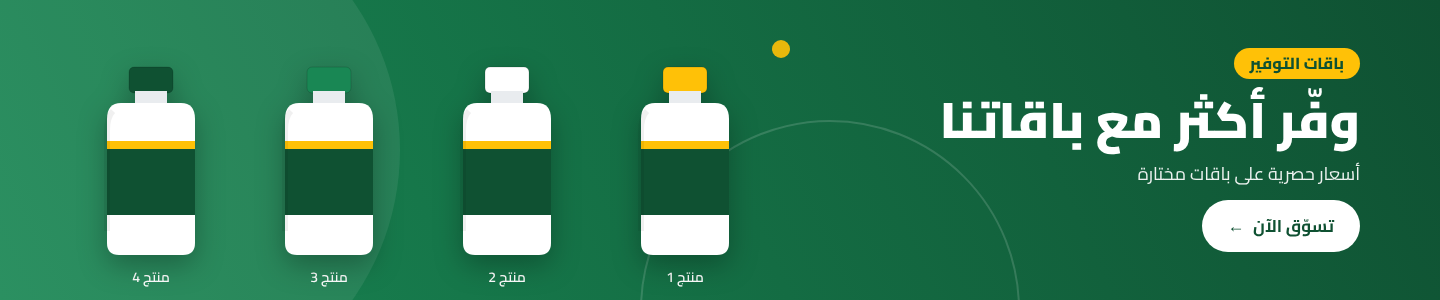
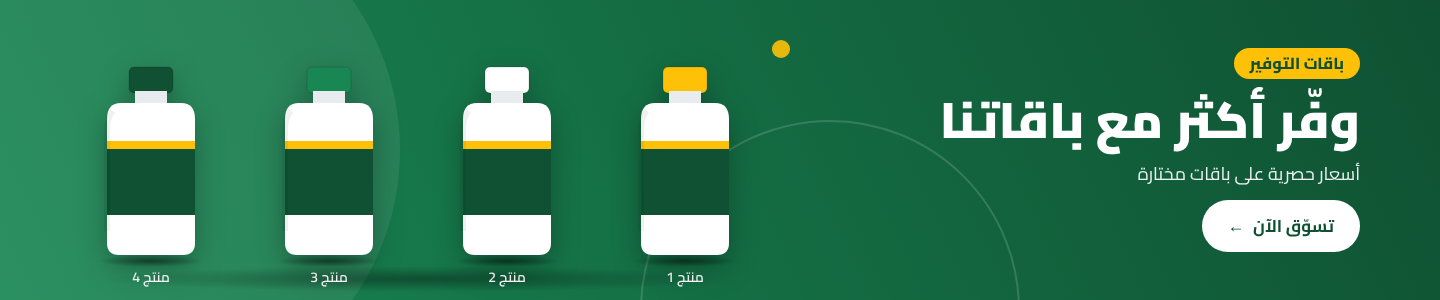
Offer 2: add remaining 3 shampoos, tidy symmetric arrangement
- Cut-out now fills the product outline, so white bottles on white
  backgrounds keep their bodies and labels
- Products share a baseline with per-product scale and ground shadows

Claude-Session: https://claude.ai/code/session_01MejyVmSq2aYVYmituLqweB

Changed region(s): [[0.1875, 0.84, 0.375, 0.96], [0.4688, 0.84, 0.5, 0.9], [0.0938, 0.84, 0.125, 0.9]]

diff --git a/banners/offers.js b/banners/offers.js
@@ -47,17 +47,18 @@ const OFFERS = [
     sub: { en: "On Bioxcin hair care favourites", ar: "على منتجات بيوكسين للعناية بالشعر" },
     cta: { en: "Shop Now", ar: "تسوّق الآن" },
     code: { en: "", ar: "" },
+    // Each row of 4 runs small → large → large → small; "scale" = height relative to the tallest.
     products: [
-      { name: { en: "Quantum Bio-Activ Shampoo", ar: "شامبو كوانتم بيو أكتيف" }, image: "products/bioxcin-quantum-shampoo.png", price: "", oldPrice: "" },
-      { name: { en: "Forte Herbal Shampoo", ar: "شامبو فورت العشبي" }, image: "products/bioxcin-forte-shampoo.png", price: "", oldPrice: "" },
-      { name: { en: "Forte Herbal Serum", ar: "سيروم فورت العشبي" }, image: "products/bioxcin-forte-serum.png", price: "", oldPrice: "" },
-      { name: { en: "Quantum Bio-Activ Serum", ar: "سيروم كوانتم بيو أكتيف" }, image: "products/bioxcin-quantum-serum.png", price: "", oldPrice: "" },
-      { name: { en: "Eyelash & Eyebrow Serum", ar: "سيروم الرموش والحواجب" }, image: "products/bioxcin-eyelash-serum.png", price: "", oldPrice: "" },
-      { name: { en: "Black Garlic Shampoo", ar: "شامبو الثوم الأسود" }, image: "products/bioxcin-black-garlic-shampoo.png", price: "", oldPrice: "" },
-      { name: { en: "Anti-Dandruff Thermal Shampoo", ar: "شامبو حراري ضد القشرة" }, image: "products/bioxcin-anti-dandruff-shampoo.png", price: "", oldPrice: "" },
-      { name: { en: "Intensive Anti-Dandruff DS Shampoo", ar: "شامبو DS المكثف ضد القشرة" }, image: "products/bioxcin-anti-dandruff-ds-shampoo.png", price: "", oldPrice: "" },
+      { name: { en: "Forte Herbal Serum", ar: "سيروم فورت العشبي" }, image: "products/bioxcin-forte-serum.png", scale: 0.72, price: "", oldPrice: "" },
+      { name: { en: "Black Garlic Shampoo", ar: "شامبو الثوم الأسود" }, image: "products/bioxcin-black-garlic-shampoo.png", scale: 0.84, price: "", oldPrice: "" },
+      { name: { en: "Anti-Dandruff Thermal Shampoo", ar: "شامبو حراري ضد القشرة" }, image: "products/bioxcin-anti-dandruff-shampoo.png", scale: 1, price: "", oldPrice: "" },
+      { name: { en: "Eyelash & Eyebrow Serum", ar: "سيروم الرموش والحواجب" }, image: "products/bioxcin-eyelash-serum.png", scale: 0.78, price: "", oldPrice: "" },
+      { name: { en: "Anti-Dandruff DS Shampoo", ar: "شامبو DS المكثف ضد القشرة" }, image: "products/bioxcin-anti-dandruff-ds-shampoo.png", scale: 0.8, price: "", oldPrice: "" },
+      { name: { en: "Quantum Bio-Activ Shampoo", ar: "شامبو كوانتم بيو أكتيف" }, image: "products/bioxcin-quantum-shampoo.png", scale: 0.86, price: "", oldPrice: "" },
+      { name: { en: "Forte Herbal Shampoo", ar: "شامبو فورت العشبي" }, image: "products/bioxcin-forte-shampoo.png", scale: 0.86, price: "", oldPrice: "" },
+      { name: { en: "Quantum Bio-Activ Serum", ar: "سيروم كوانتم بيو أكتيف" }, image: "products/bioxcin-quantum-serum.png", scale: 0.62, price: "", oldPrice: "" },
     ],
-  },
+},
   {
     id: "offer-3",
     theme: { from: "#0f5132", to: "#198754", accent: "#ffc107", text: "#ffffff" },

diff --git a/banners/banners.css b/banners/banners.css
@@ -217,3 +217,18 @@ img.logo { object-fit: contain; }
 .desktop-hero.n7 .product, .desktop-hero.n8 .product { width: 100px; }
 .desktop-hero.n7 .product-media, .desktop-hero.n8 .product-media { width: 96px; height: 220px; }
 .desktop-hero.n7 .product-name, .desktop-hero.n8 .product-name { display: none; }
+
+/* products stand on one baseline; --s sizes each relative to the tallest */
+.product-media img { height: calc(var(--s, 1) * 100%); object-position: bottom; }
+.desktop-hero .products::after, .mobile-hero .products::after, .mobile-slim .products::after {
+  content: ""; position: absolute; z-index: -1; left: 4%; right: 4%; bottom: 8px; height: 26px;
+  background: radial-gradient(closest-side, rgba(0,0,0,.35), transparent); pointer-events: none;
+}
+.product-media { position: relative; }
+.product-media::after {
+  content: ""; position: absolute; z-index: -1; left: 10%; right: 10%; bottom: -6px; height: 12px;
+  background: radial-gradient(closest-side, rgba(0,0,0,.45), transparent);
+}
+/* names reserve two lines so every product in a row stands on the same baseline */
+.mobile-vertical-hero .product { align-self: stretch; justify-content: flex-end; }
+.mobile-vertical-hero .product-name { min-height: 2.5em; display: flex; align-items: flex-start; justify-content: center; }

diff --git a/banners/banners.js b/banners/banners.js
@@ -37,7 +37,7 @@ function productHTML(p, offer, lang, i, showName) {
     ? `<div class="price">${p.oldPrice ? `<s>${esc(p.oldPrice)}</s>` : ""}<b>${esc(p.price)}</b></div>`
     : "";
   return `
-    <div class="product">
+    <div class="product" style="--s:${p.scale ?? 1}">
       <div class="product-media">${media}</div>
       ${showName ? `<div class="product-name">${txt(name)}</div>${price}` : ""}
     </div>`;

diff --git a/banners/prepare-products.py b/banners/prepare-products.py
@@ -4,8 +4,8 @@ Usage:  python3 prepare-products.py photo1.jpg photo2.jpg ...
         python3 prepare-products.py raw/*.jpg --out products
 
 Each input is saved as a transparent PNG with the same name in --out
-(default: products/). Only white connected to the image border is removed,
-so white parts of the product itself (caps, labels) are kept.
+(default: products/). Only background outside the product outline is removed, so white
+bottles, caps and labels are kept.
 """
 import argparse
 from pathlib import Path
@@ -15,7 +15,8 @@ from PIL import Image, ImageDraw, ImageFilter
 parser = argparse.ArgumentParser()
 parser.add_argument("images", nargs="+")
 parser.add_argument("--out", default=str(Path(__file__).parent / "products"))
-parser.add_argument("--threshold", type=int, default=238, help="min RGB value counted as background")
+parser.add_argument("--threshold", type=int, default=252, help="pixels with any channel below this count as product")
+parser.add_argument("--close", type=int, default=7, help="gap size (odd px) closed in the product outline")
 args = parser.parse_args()
 
 out_dir = Path(args.out)
@@ -24,14 +25,17 @@ out_dir.mkdir(parents=True, exist_ok=True)
 for src in map(Path, args.images):
     img = Image.open(src).convert("RGBA")
     w, h = img.size
-    # 255 where the pixel is near-white, 0 elsewhere.
-    whiteish = img.convert("RGB").point(lambda v: 255 if v >= args.threshold else 0).convert("L")
-    whiteish = whiteish.point(lambda v: 255 if v == 255 else 0)
-    # Flood the near-white area connected to the border with 128 = background.
+    # Mark everything that is clearly not background, close small gaps in the
+    # outline, then treat any area the border can't reach as part of the
+    # product. This keeps white bottles and labels intact.
+    gray = img.convert("RGB").point(lambda v: 255 if v < args.threshold else 0).convert("L")
+    product = gray.point(lambda v: 255 if v else 0).filter(ImageFilter.MaxFilter(args.close))
     for x, y in [(0, 0), (w - 1, 0), (0, h - 1), (w - 1, h - 1), (w // 2, 0), (w // 2, h - 1), (0, h // 2), (w - 1, h // 2)]:
-        if whiteish.getpixel((x, y)) == 255:
-            ImageDraw.floodfill(whiteish, (x, y), 128)
-    alpha = whiteish.point(lambda v: 0 if v == 128 else 255).filter(ImageFilter.GaussianBlur(0.8))
+        if product.getpixel((x, y)) == 0:
+            ImageDraw.floodfill(product, (x, y), 128)
+    # Erode a little past the closing so light anti-aliased edge pixels go too.
+    alpha = product.point(lambda v: 0 if v == 128 else 255).filter(ImageFilter.MinFilter(args.close + 4))
+    alpha = alpha.filter(ImageFilter.GaussianBlur(0.8))
     img.putalpha(alpha)
     img = img.crop(alpha.point(lambda v: 255 if v > 10 else 0).getbbox())
     dest = out_dir / (src.stem + ".png")

diff --git a/banners/README.md b/banners/README.md
@@ -18,6 +18,10 @@
    ```bash
    python3 prepare-products.py path/to/photos/*.jpg --out products
    ```
+   - منتج لونه أبيض على خلفية بيضا: سيب الإعداد الافتراضي (`--threshold 252`).
+   - منتج ملوّن: استخدم `--threshold 238` عشان الحواف تطلع أنضف.
+   - صورة متصورة على أرضية رمادي: نزّل الرقم (مثلاً `--threshold 205`).
+   - `scale` في `offers.js` بيحدد طول كل منتج بالنسبة لأطول منتج عشان الرصّة تبقى متناسقة.
 2. **النصوص والمنتجات:** عدّل `offers.js` (العنوان، الوصف، الزرار، الكود، الألوان، المنتجات والأسعار).
 3. **المعاينة:** افتح `index.html` في المتصفح.
 4. **التصدير PNG:**
